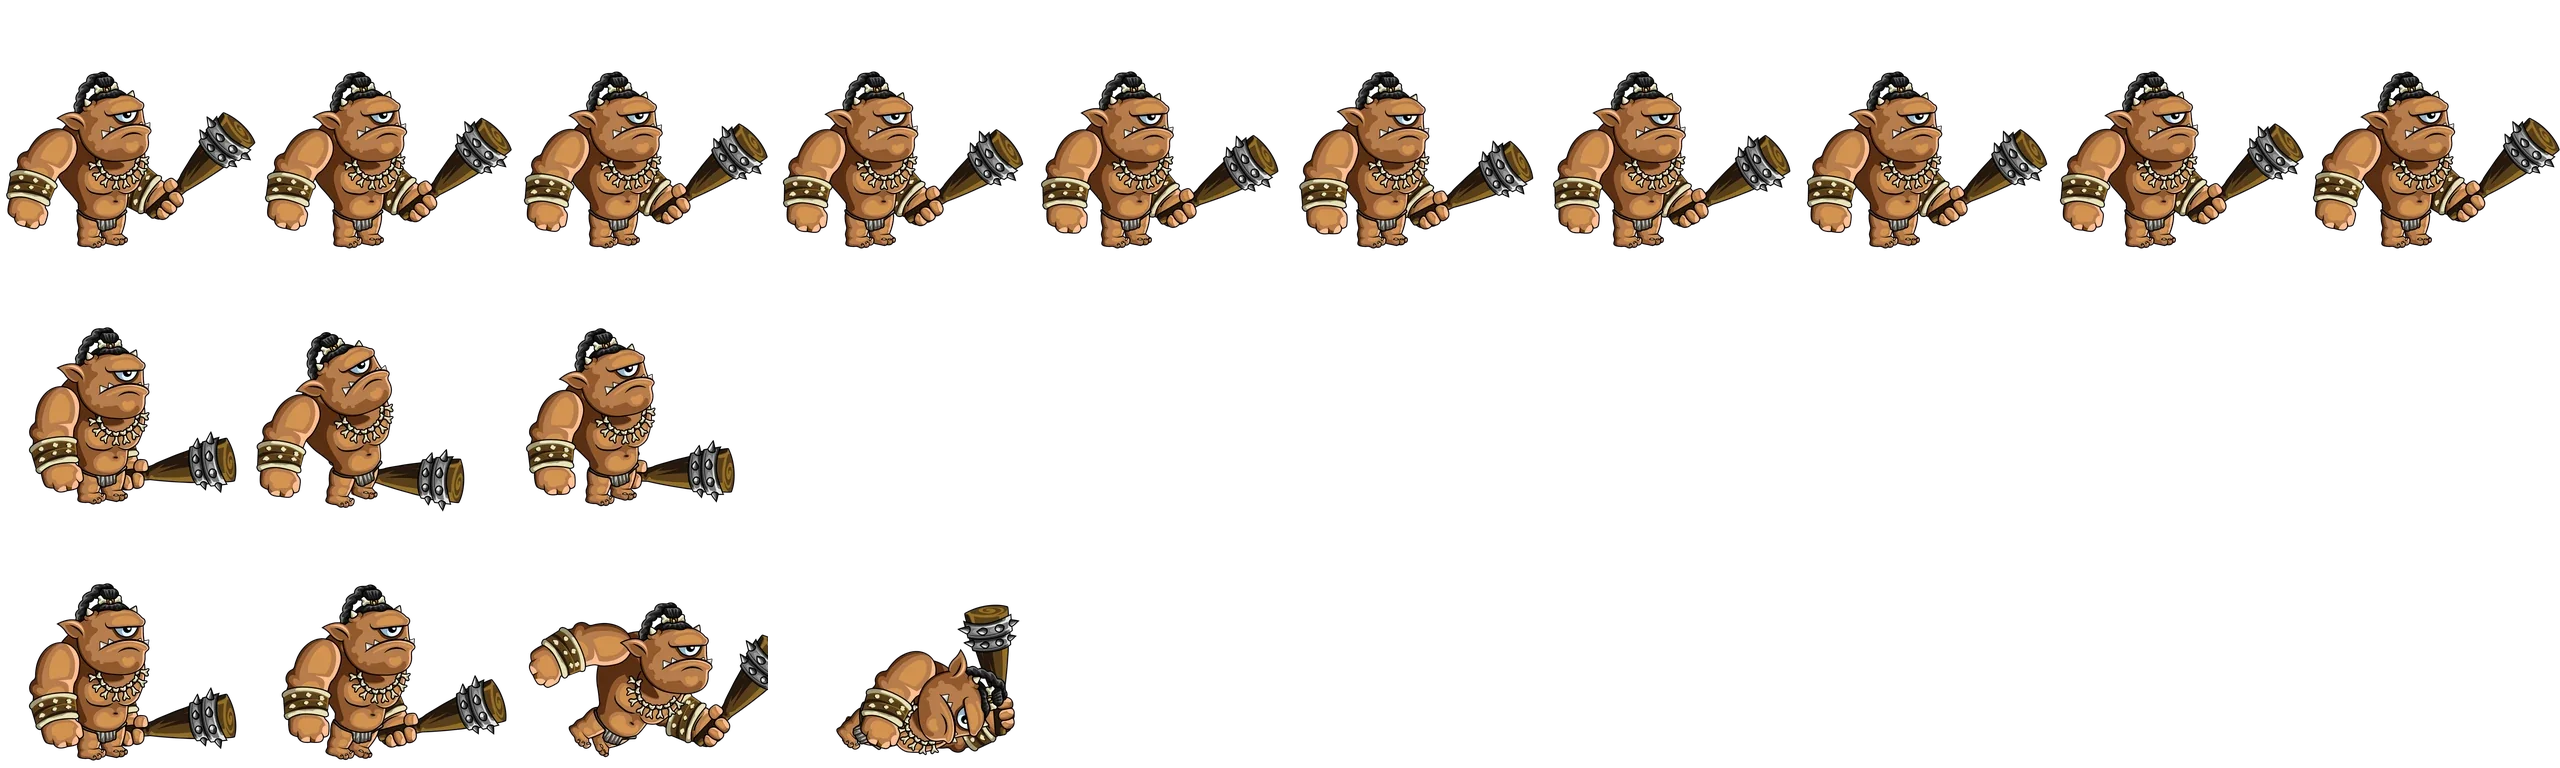
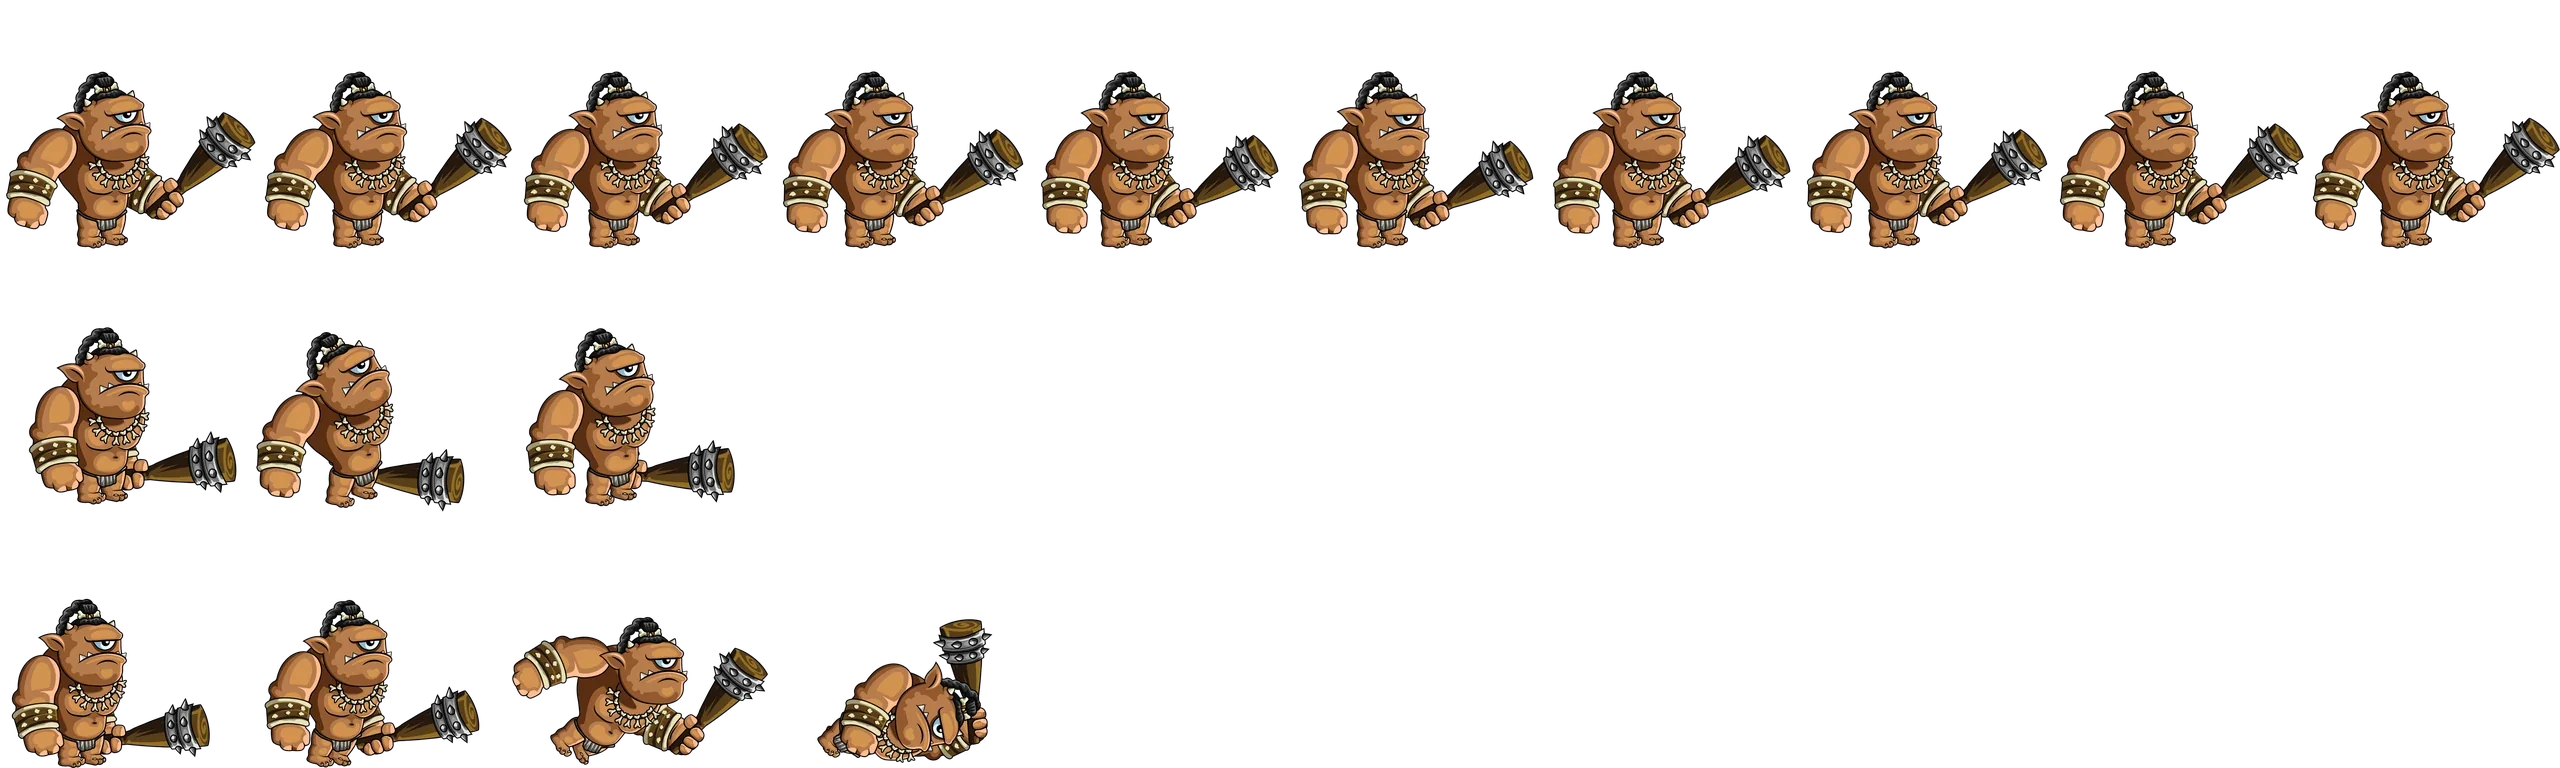
Pop-ups use the same boss and minion art as the stage map
- Beat defeated pop-up: the map boss plays its death animation
- Boss info pop-up: the map boss, animated
- Minion toasts (dashboard and Write page) use the map minion art
- Write-page 'beat defeated' toast uses the map boss
- Death frames framed on their own so fallen bosses aren't cropped

Claude-Session: https://claude.ai/code/session_01Xs8GY9BdVtkwP5KSFjHCCY

Changed region(s): [[0.0, 0.75, 0.4062, 1.0]]

diff --git a/script.js b/script.js
@@ -234,7 +234,7 @@ function showCombatToast(label, name, emoji, taunt, spriteUrl) {
     const toast = document.createElement('div');
     toast.className = 'combat-toast';
     const iconHtml = spriteUrl
-        ? `<img src="${spriteUrl}" style="height:40px;width:auto;image-rendering:pixelated;display:block;flex-shrink:0;">`
+        ? `<img src="${spriteUrl}" style="height:40px;width:auto;image-rendering:${/stagemap\/|bosses-anim\//.test(spriteUrl) ? 'auto' : 'pixelated'};display:block;flex-shrink:0;">`
         : (emoji ? `<span class="toast-emoji">${emoji}</span>` : '');
     toast.innerHTML = `
         <div class="toast-label">${label}</div>
@@ -267,7 +267,8 @@ window.addWords = function() {
     // ── Boss beat defeated ────────────────────────────────────────────────────
     if (ev.beat) {
         document.getElementById('bossBeatTitle').innerText = ev.beat.name;
-        document.getElementById('defeatedBossSprite').src = window.getBossImgSrc(ev.beat.idx + 1);
+        const deadEl = document.getElementById('defeatedBossSprite');
+        if (deadEl && window.DPBossSprite) { const c = DPBossSprite.attach(deadEl, ev.beat.idx + 1); if (c) setTimeout(() => c.die(), 350); }
         document.getElementById('levelOverlay').style.display = 'flex';
         if (window.SFX) SFX.bossDefeated();
         const app = document.querySelector('.app');
@@ -314,9 +315,8 @@ window.addWords = function() {
     if (ev.minion) {
         const labels = ['HENCHMAN DEFEATED', 'MINION SUBDUED', 'FOE VANQUISHED', 'OBSTACLE CRUSHED'];
         const label  = labels[ev.minion.idx % labels.length];
-        const mKey   = 'MonsterV' + (ev.minion.idx + 1);
-        const mData  = window.gameManifest && window.gameManifest.monsters[mKey];
-        const mSprite = mData && mData.Idle && mData.Idle[0] ? mData.Idle[0] : null;
+        // Same art as the minion on the stage map
+        const mSprite = `stagemap/minion${ev.minion.idx + 1}.png`;
         showCombatToast(label, ev.minion.name, ev.minion.emoji, ev.minion.taunt, mSprite);
         if (window.SFX) SFX.minionDefeated();
     }
@@ -780,7 +780,7 @@ window.showBossZoom = function() {
     const curBeatIdx = BOSS_BEATS.findLastIndex(b => progress >= b.pct);
     const nextBeat   = BOSS_BEATS[curBeatIdx + 1] || BOSS_BEATS[curBeatIdx];
     const wordsNeeded = Math.ceil((nextBeat.pct / 100) * state.goal) - state.total;
-    document.getElementById('bossZoomSprite').src = window.getBossImgSrc(curBeatIdx + 2);
+    if (window.DPBossSprite) DPBossSprite.attach(document.getElementById('bossZoomSprite'), Math.min(BOSS_BEATS.length, curBeatIdx + 2));
     document.getElementById('bossZoomName').innerText = `STAGE ${curBeatIdx + 2} — ${nextBeat.name.toUpperCase()}`;
     document.getElementById('bossZoomBeat').innerText = wordsNeeded > 0
         ? `${wordsNeeded.toLocaleString()} WORDS TO DEFEAT`

diff --git a/index.html b/index.html
@@ -382,7 +382,7 @@
     <div id="levelOverlay" class="overlay" onclick="closeOverlay()">
         <div class="congrats-circle poster poster-ink">
             <h2 class="poster-head poster-head-red">BOSS BEAT DEFEATED!</h2>
-            <img id="defeatedBossSprite" src="" style="width:110px;height:110px;image-rendering:pixelated;object-fit:contain;display:block;margin:8px auto;filter:drop-shadow(0 0 10px var(--neon));">
+            <span id="defeatedBossSprite" class="sm-boss-sprite dp-boss-pop" style="width:110px;height:110px;margin:8px auto;" role="img" aria-label="Boss"></span>
             <div id="bossBeatTitle" style="font-size:1.3rem;font-weight:900;color:var(--text);margin:8px 0 4px;"></div>
             <div style="font-size:0.75rem;color:var(--text-dim);letter-spacing:1px;">CLICK TO CONTINUE</div>
         </div>
@@ -437,7 +437,7 @@
     <div id="bossZoomOverlay" class="overlay" onclick="closeBossZoom()">
         <div class="congrats-circle">
             <div style="font-size:0.75rem;letter-spacing:3px;color:var(--text-dim);margin-bottom:6px;">BOSS INTEL</div>
-            <img id="bossZoomSprite" src="" style="width:130px;height:130px;image-rendering:pixelated;object-fit:contain;filter:drop-shadow(0 0 12px var(--neon));display:block;margin:0 auto;">
+            <span id="bossZoomSprite" class="sm-boss-sprite dp-boss-pop" style="width:130px;height:130px;margin:8px auto;" role="img" aria-label="Boss"></span>
             <div id="bossZoomName" style="font-size:1rem;font-weight:900;color:var(--neon);margin:8px 0 4px;letter-spacing:2px;"></div>
             <div id="bossZoomBeat" style="font-size:0.75rem;letter-spacing:1px;color:var(--neon);color:var(--text-dim);margin-bottom:6px;"></div>
             <div id="bossZoomLore" style="font-size:0.75rem;line-height:1.5;"></div>

diff --git a/write.js b/write.js
@@ -233,9 +233,9 @@ function syncChaptersToTracker(ids) {
     if (ev.streak)  queueToast(null, `🔥 ${ev.streak.days}-DAY STREAK`, `+${ev.streak.bonus} BONUS XP`);
     if (sev) streakToasts(sev).forEach(t => queueToast(null, t[0], t[1]));
     if (ev.session) queueToast(null, ev.session.label, `+${ev.session.bonus} BONUS XP`);
-    if (ev.beat)    queueToast(window.getBossImgSrc ? window.getBossImgSrc(ev.beat.idx + 1) : null, 'BEAT DEFEATED', ev.beat.name.toUpperCase());
+    if (ev.beat)    queueToast(window.DPBossSprite ? DPBossSprite.still(ev.beat.idx + 1) : null, 'BEAT DEFEATED', ev.beat.name.toUpperCase());
     ev.buddies.forEach(f => queueToast(`buddies/${f}`, 'NEW BUDDY!', 'CHECK YOUR COLLECTION'));
-    if (ev.minion)  queueToast(null, `${ev.minion.emoji} FOE VANQUISHED`, ev.minion.name.toUpperCase());
+    if (ev.minion)  queueToast(`stagemap/minion${ev.minion.idx + 1}.png`, 'FOE VANQUISHED', ev.minion.name.toUpperCase());
     if (ev.levelUp) queueToast(`shields/${Math.min(5, Math.ceil(ev.levelUp.level / 5))}.png`, `LEVEL ${ev.levelUp.level}!`, ev.levelUp.rank.toUpperCase());
     // Comic pop-ups for the big moments. The writer has just chosen to sync,
     // so this is a pause in the writing rather than an interruption.

diff --git a/fx.js b/fx.js
@@ -109,6 +109,7 @@
     function attach(el, n) {
         const s = SHEETS[n - 1];
         if (!el || !s) return null;
+        if (el._dpBoss) el._dpBoss.stop();   // re-used element (pop-ups): one animation at a time
         el.style.backgroundImage = `url(bosses-anim/boss${n}.webp)`;
         el.style.backgroundSize = `${s.cols * 100}% 300%`;
         let row = 0, frame = 0, count = s.idle, onDone = null, timer = null;
@@ -130,9 +131,10 @@
         }
         draw();
         if (!reduced) timer = setInterval(tick, 110);
-        return {
+        return el._dpBoss = {
             hurt() { if (reduced || !s.hurt) return; play(1, s.hurt, () => play(0, s.idle)); },
-            die(cb) { if (reduced || !s.die) { if (cb) cb(); return; } play(2, s.die, () => { if (cb) cb(); }); },
+            // Plays the death once and holds on the last frame
+            die(cb) { if (reduced || !s.die) { if (cb) cb(); return; } play(2, s.die, () => { clearInterval(timer); if (cb) cb(); }); },
             stop() { clearInterval(timer); }
         };
     }

diff --git a/style.css b/style.css
@@ -2587,3 +2587,7 @@ body.light-mode .sm-minion.sm-is-next { animation-name: smNextPulseLight; }
     .sm-fresh .sm-x { opacity: 1; animation: none; }
     .sm-fresh img { opacity: 0.4; animation: none; }
 }
+
+/* Boss in the 'beat defeated' and boss-info pop-ups (same art as the map) */
+.dp-boss-pop { display: block; filter: drop-shadow(0 0 10px var(--neon)); }
+.write-toast-sprite[src*="stagemap/"], .write-toast-sprite[src*="bosses-anim/"] { image-rendering: auto; }
